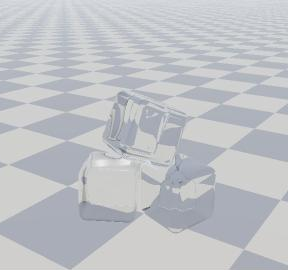
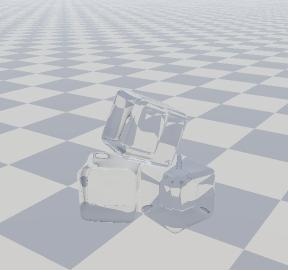
refactor(samples): put the whole glass-ice shader into one pixel shader function
- GlassIce.hlsl: 表面を探す・中を進む・出口・影・コップを、 すべて PSMain の中に上から順に書いた。
  関数として残すのはノイズと SDF (Hash / Noise / Cube / IceSdf / IceNormal) だけ
- 表面のゆらぎを sin から値ノイズに変えた
- 出口で中へ跳ね返る分を、 跳ね返った向きの景色で近似して足す (後ろの面の映り込み、 段階 4)
- コップの映り込みはガラスの反射率 (0.04) を使う
- README: シェーダーの形 (PSMain の中の流れ)、 後ろの面が見える理由。 段階ごとの絵を差し替え
- DESIGN: 06 の説明とフェーズ 6 を追加

diff --git a/samples/06_glass_ice/GlassIceSample.cpp b/samples/06_glass_ice/GlassIceSample.cpp
@@ -13,7 +13,7 @@ static_assert(sizeof(GlassIceConstants) == 4 * 4, "GlassIceConstants must be fou
 
 constexpr int kStepCount = 7;
 const wchar_t* const kStepNames[] = { L"強い吸収 (氷塊の色)", L"吸収を弱く (小さな氷はほぼ無色)", L"屈折 (歪み)",
-                                      L"全反射", L"白い芯", L"薄い影", L"コップ" };
+                                      L"全反射と後ろの面の映り込み", L"白い芯", L"薄い影", L"コップ" };
 
 } // namespace
 

diff --git a/samples/06_glass_ice/README.md b/samples/06_glass_ice/README.md
@@ -1,6 +1,6 @@
 # 06. コップの氷 (短い版)
 
-氷を 「氷塊」 ではなく **「コップに入れた氷」** に見せるには何が要るかを、 短いシェーダー 1 本 ([`shaders/GlassIce.hlsl`](shaders/GlassIce.hlsl)) で確かめるサンプル。
+氷を 「氷塊」 ではなく **「コップに入れた氷」** に見せるには何が要るかを、 短いシェーダー 1 本 ([`shaders/GlassIce.hlsl`](shaders/GlassIce.hlsl)) で確かめるサンプル。 描き方はピクセルシェーダーの関数 1 つ (`PSMain`) に全部入っている。
 1〜7 のキーで、 要素を 1 つずつ足して比べられる (前の段の物は全部入ったまま)。
 
 | キー | 足す物 | 見た目 |
@@ -8,12 +8,12 @@
 | 1 | 強い吸収、 屈折なし | 青っぽい透明な箱。 **氷塊に近い見た目** |
 | 2 | 吸収を弱く | ほぼ見えない (色が無くなり、 背景がそのまま透ける) |
 | 3 | **屈折 (歪み)** | ここで急に氷に見える |
-| 4 | **全反射** | 面ごとに明るい所・暗い所ができ、 縁が銀色に光る |
+| 4 | **全反射と後ろの面の映り込み** | 面ごとに明るい所・暗い所ができ、 縁や後ろの面が銀色に光る |
 | 5 | 白い芯 | 冷凍庫の氷 (真ん中が白く濁る) |
 | 6 | 薄い影 | 床に置いてある感じ |
 | 7 | コップ | 薄いガラスの映り込み |
 
-| 1 強い吸収 | 2 吸収を弱く | 3 屈折 | 4 全反射 |
+| 1 強い吸収 | 2 吸収を弱く | 3 屈折 | 4 全反射と後ろの面 |
 | --- | --- | --- | --- |
 | ![1](images/step1.png) | ![2](images/step2.png) | ![3](images/step3.png) | ![4](images/step4.png) |
 
@@ -47,45 +47,66 @@
 
 中の散乱を全体に入れると、 霧のように白っぽくなる。 入れるなら芯 (表面から深い所) だけにする (段階 5)。
 
-## シェーダーの流れ
+## シェーダーの形
+
+関数に分けているのは **ノイズと SDF だけ** (`Hash` / `Noise` / `Cube` / `IceSdf` / `IceNormal`)。
+描き方は全部 `PSMain` の中に、 上から順に書いてある。 `PSMain` を上から読めば、 流れが全部分かる。
 
 ```
-RaymarchSurface   外から表面を探す (球追跡)
-Surface           映り込み (Fresnel) を足す → 残りは屈折して中へ
-RaymarchExit      中を出口まで進む (吸収・白い芯)
-Exit              屈折して外へ。 出られない角度なら全反射して、 また RaymarchExit
-                  → 外へ出たら、 隣の氷にまた当たるか RaymarchSurface から (3 回まで)
-Background        最後に、 出た向きの景色 (空・床・影)
+PSMain
+├─ for 氷 (3 回まで: 出た光が隣の氷にまた入る)
+│   ├─ 1. 外から表面を探す (球追跡: SDF の値だけ進む)
+│   ├─ 2. 表面: 映り込み (Fresnel) を足し、 残りは屈折して中へ
+│   └─ for 出口 (4 回まで: 全反射で跳ね返る)
+│       ├─ 3a. 中を進む (−SDF の値だけ進む。 吸収と白い芯)
+│       └─ 3b. 出口 (後ろの面): 屈折して外へ / 全反射で中へ。 後ろの面の映り込み
+├─ 4. 出た向きの景色 (床なら、 太陽へ氷をたどって薄い影)
+└─ 5. コップ (薄いガラスの映り込み)
 ```
 
-いちばん大事な所 (`ShadeGlassIce` の中。 段階の切り替えを除いた形):
+いちばん大事な所 (2〜3b。 段階の切り替えを除いた形):
 
 ```hlsl
-// Surface: 映り込みを足し、 残りは屈折して中へ
-float F = Fresnel(dot(-rd, n));
-col += thr * F * Background(p, reflect(rd, n));
+// 2. 表面: 映り込みを足し、 残りは屈折して中へ
+float F = F0 + (1.0 - F0) * pow(1.0 - saturate(dot(-rd, n)), 5.0);
+col += thr * F * Environment(p, reflect(rd, n));
 thr *= 1.0 - F;
-rd = refract(rd, n, 1.0 / IOR);           // 空気 → 氷
+rd = refract(rd, n, 1.0 / IOR);               // 空気 → 氷
 p -= n * EPS;
 
-// Exit: 出口まで進み、 出られなければ (全反射) 中で跳ね返る
 for (int k = 0; k < 4; ++k) {
-    p += rd * RaymarchExit(p, rd, col, thr);
+    // 3a. 中では −SDF が 「いちばん近い表面までの距離」。 その分進めば表面を越えない
+    for (int j = 0; j < 64; ++j) {
+        float depth = -IceSdf(p);
+        if (depth < 0.0005) break;                // 出口 (後ろの面) に着いた
+        float s = clamp(depth, 0.0005, 0.02);
+        thr *= exp(-absorb * s);                  // 吸収 (白い芯もここで足す)
+        p += rd * s;
+    }
+    // 3b. 出口: 氷 → 空気
     n = IceNormal(p);
-    float3 outDir = refract(rd, -n, IOR);  // 氷 → 空気
-    if (dot(outDir, outDir) < 1e-6) {      // 解が無い = 全反射
+    float3 outDir = refract(rd, -n, IOR);
+    if (dot(outDir, outDir) < 1e-6) {             // 解が無い = 全反射
         rd = reflect(rd, n);
         p -= n * EPS;
-        continue;
+        continue;                                 // 中で跳ね返って、 もう一度 3a
     }
-    thr *= 1.0 - Fresnel(dot(outDir, n));
-    rd = outDir;
+    F = F0 + (1.0 - F0) * pow(1.0 - saturate(dot(outDir, n)), 5.0);
+    col += thr * F * Environment(p, reflect(rd, n));  // 後ろの面の映り込み (中へ跳ね返る分の近似)
+    thr *= 1.0 - F;
+    rd = outDir;                                  // 残りは曲がって外へ
     p += n * EPS;
     break;
 }
 ```
 
-`RaymarchExit` は、 中では −SDF が 「いちばん近い表面までの距離」 なので、 その分だけ進む (表面を越えない)。 進みながら吸収 `exp(−σ × 長さ)` を掛け、 芯の気泡に当たった分を白く足す。
+### 後ろの面が見える理由
+
+透明なので、 表の面の向こうに後ろの面 (出口) が見える。 3a で着く出口が、 その後ろの面そのもの。 後ろの面は色を塗らなくても、 次の 3 つで見える。
+
+1. 後ろの面の向きで、 出口での背景の曲がり方が変わる (面の境目で背景がずれて、 線に見える)
+2. 全反射で、 後ろの面が鏡のように光る
+3. 外へ出る光のうち F の割合は中へ跳ね返る。 これを跳ね返った向きの景色で足す (段階 4)。 全反射の角度に近いほど F が 1 に近づくので、 斜めの後ろの面ほど強く光る
 
 ## 式
 
@@ -105,7 +126,7 @@ for (int k = 0; k < 4; ++k) {
 ## 本体との違い
 
 本体 ([`IceSdf.hlsl`](../../src/ice/shaders/IceSdf.hlsl)) は、 焼いた 3D テクスチャの SDF・箱のメッシュ・色付きの影など、 部品として使う物を全部入れている。
-このサンプルは全画面のパス 1 つで、 形は式で書き、 影は 「薄い黒」 だけにして、 見た目に効く所だけを残した。
+このサンプルは全画面のパス 1 つで、 形は式で書き、 影は 「薄い黒」 だけにして、 見た目に効く所だけを残した。 描き方は関数に分けず `PSMain` 1 つにまとめてある。
 
 - 球追跡: [04_sdf_raymarch](../04_sdf_raymarch/README.md)
 - 中を進んで足す: [03_raymarch](../03_raymarch/README.md)

diff --git a/docs/DESIGN.md b/docs/DESIGN.md
@@ -323,7 +323,7 @@ flowchart TD
 | `03_raymarch` | レイマーチングだけ | 霧の玉 (密度の場) を一定の歩幅で進み、 吸収と散乱を足す。 太陽への 2 回目のレイマーチで影。 SDF は使わない | ↑ ↓: 歩数、 S: 影、 [ ]: 濃さ |
 | `04_sdf_raymarch` | SDF × レイマーチング | 02 の式の形を球追跡で描く。 法線・光・影 (くっきり / やわらか)。 歩数と法線を色で見る。 歩幅の倍率を変えて、 越える様子を見る | 1〜8: 形、 H: 表示、 S: 影、 ↑ ↓: 歩幅の倍率 |
 | `05_baked_sdf` | SDF を焼いて描く | CPU で SDF を格子に焼き、 3D テクスチャから読んで球追跡する (`generateSDF` の最小の形)。 短くするため、 箱のメッシュではなく全画面で描き、 画素ごとに箱との交差を調べる | 1〜5: 格子 8³〜128³、 G: 格子の線 |
-| `06_glass_ice` | コップの氷 (短い版) | 本体の SDF の氷を、 全画面のシェーダー 1 本に短くした物。 角の丸い立方体 3 つ (式の SDF)。 映り込み・屈折・全反射・吸収・白い芯・薄い影・コップを、 段階ごとに足して比べる | 1〜7: 段階 |
+| `06_glass_ice` | コップの氷 (短い版) | 本体の SDF の氷を、 全画面のシェーダー 1 本に短くした物。 描き方はピクセルシェーダーの関数 1 つ (`PSMain`) にまとめ、 関数はノイズと SDF だけ。 角の丸い立方体 3 つ (式の SDF)。 映り込み・屈折・全反射・吸収・白い芯・薄い影・コップを、 段階ごとに足して比べる | 1〜7: 段階 |
 
 ```
 samples/
@@ -368,6 +368,7 @@ samples/
 | 3 仕上げ | `feature/ice-bubbles`, `feature/ice-shadow`, `docs/guide`, `docs/presentation`, `docs/readme` | 白く濁った芯、 色付きの影、 実装の手順と参考文献、 発表のテンプレート、 README |
 | 4 簡易サンプル | `docs/samples-design`, `feature/samples-common`, `feature/sample-primitives`, `feature/sample-sdf`, `feature/sample-raymarch`, `feature/sample-sdf-raymarch`, `feature/sample-baked-sdf` | 機能ごとに 1 つずつ、 小さな exe で試せる |
 | 5 コップの氷 | `feature/sample-glass-ice` | 氷塊ではなくコップの氷に見せる要素を、 短いシェーダー 1 本で段階ごとに比べられる |
+| 6 1 つの関数にまとめる | `feature/glass-ice-one-function` | コップの氷の描き方を `PSMain` 1 つに入れ、 上から読めば流れが分かる。 後ろの面の映り込みを足す |
 
 各要素には `docs/` に解説を 1 つ付ける (必要なコードを載せ、 1 つずつ説明する)。
 エンジンの代わりの要素の解説は短く、 氷の部品の要素の解説を詳しくする。
